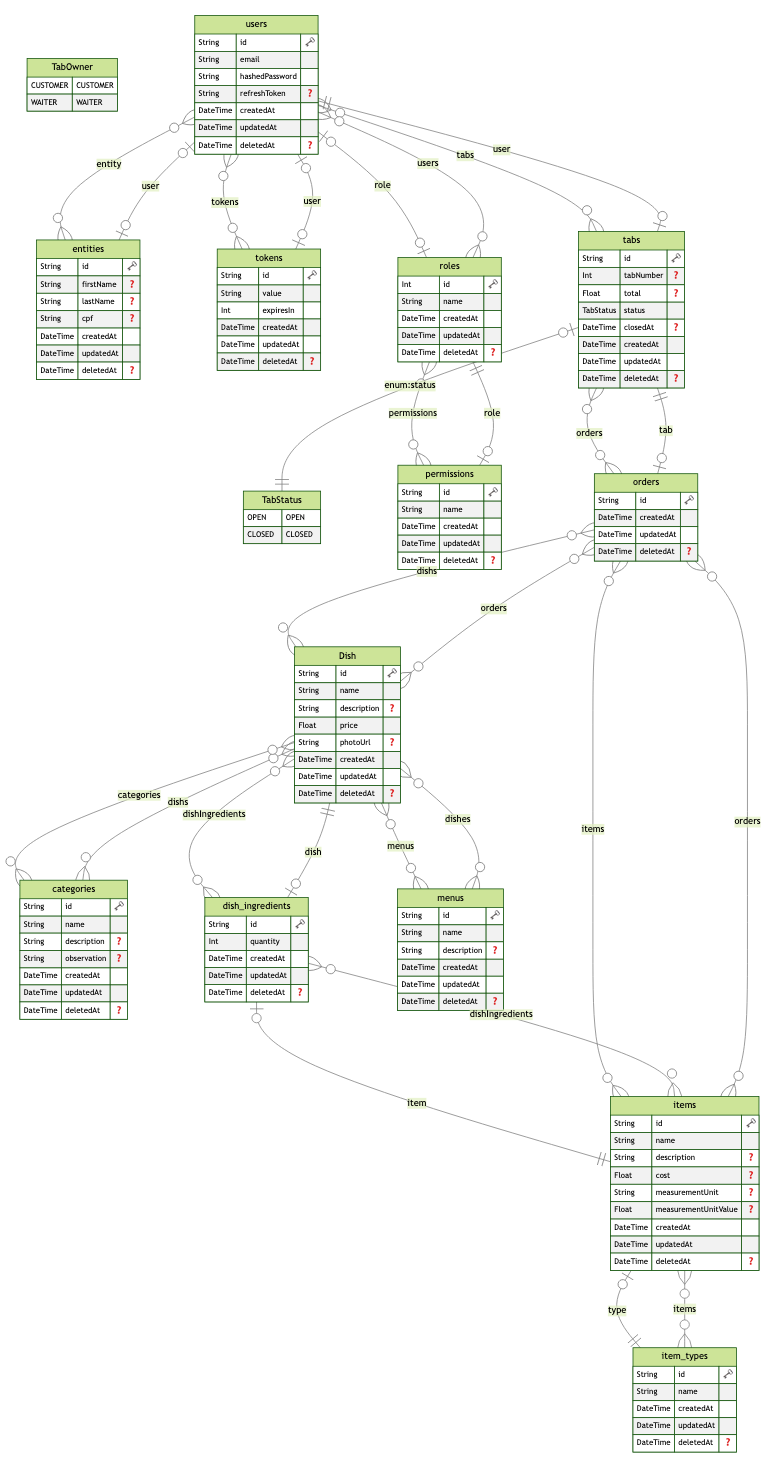
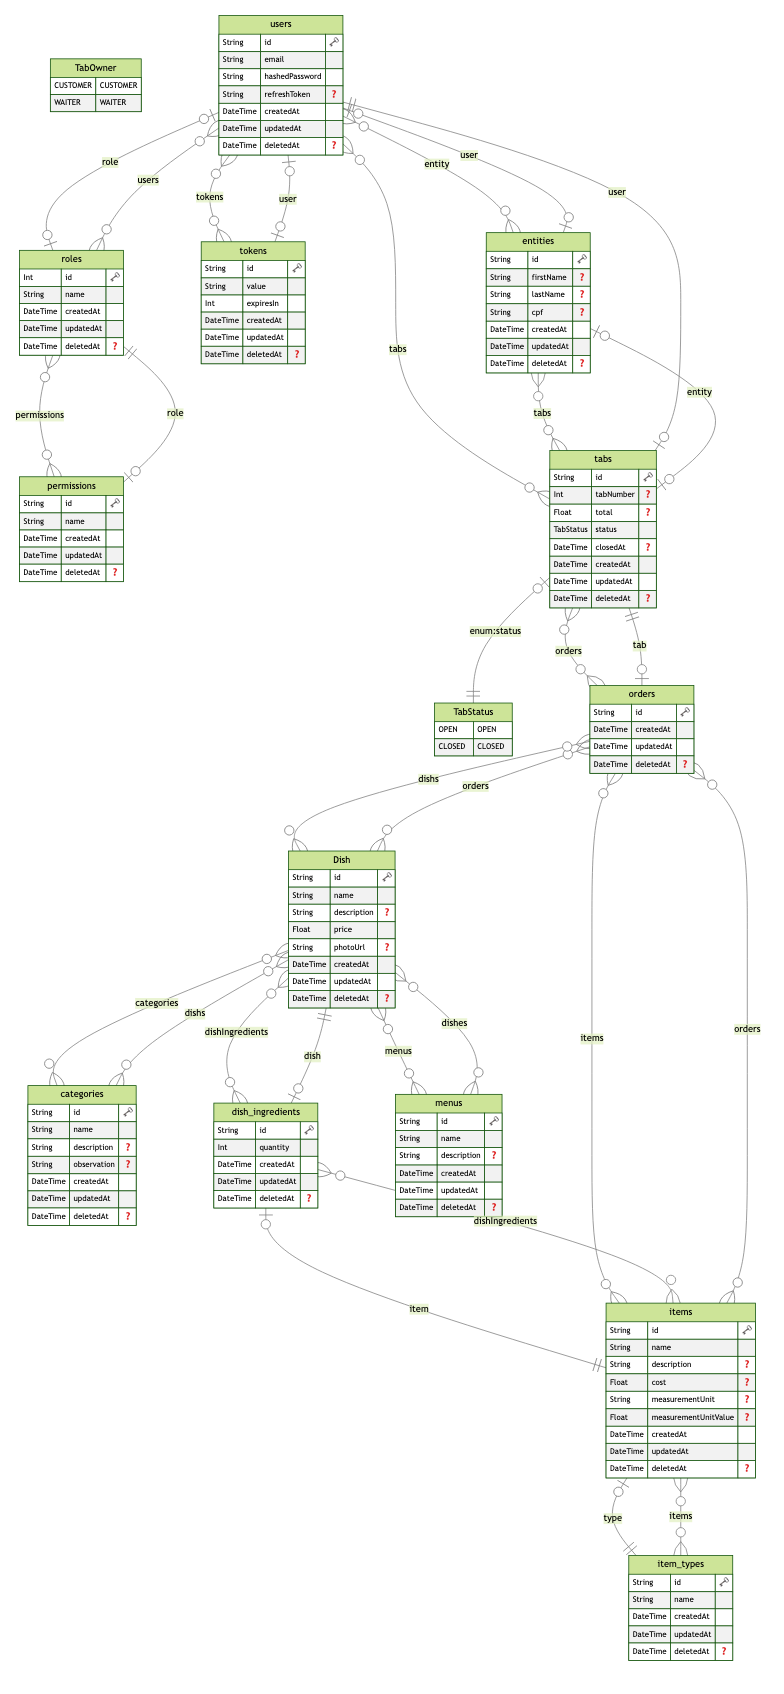
fix: logic issues

diff --git a/src/modules/tab/tab.service.ts b/src/modules/tab/tab.service.ts
@@ -42,6 +42,7 @@ export class TabService {
         data: {
           tabNumber: dto.tabNumber,
           userId: dto.userId,
+          entityId: createdEntity.id,
         },
       });
 
@@ -91,6 +92,7 @@ export class TabService {
   }
 
   async getOpenTabs() {
+    //Todo build a payload obj return to not send hashedpassword attribute in user
     try {
       const tabs = await this.prisma.tab.findMany({
         where: {
